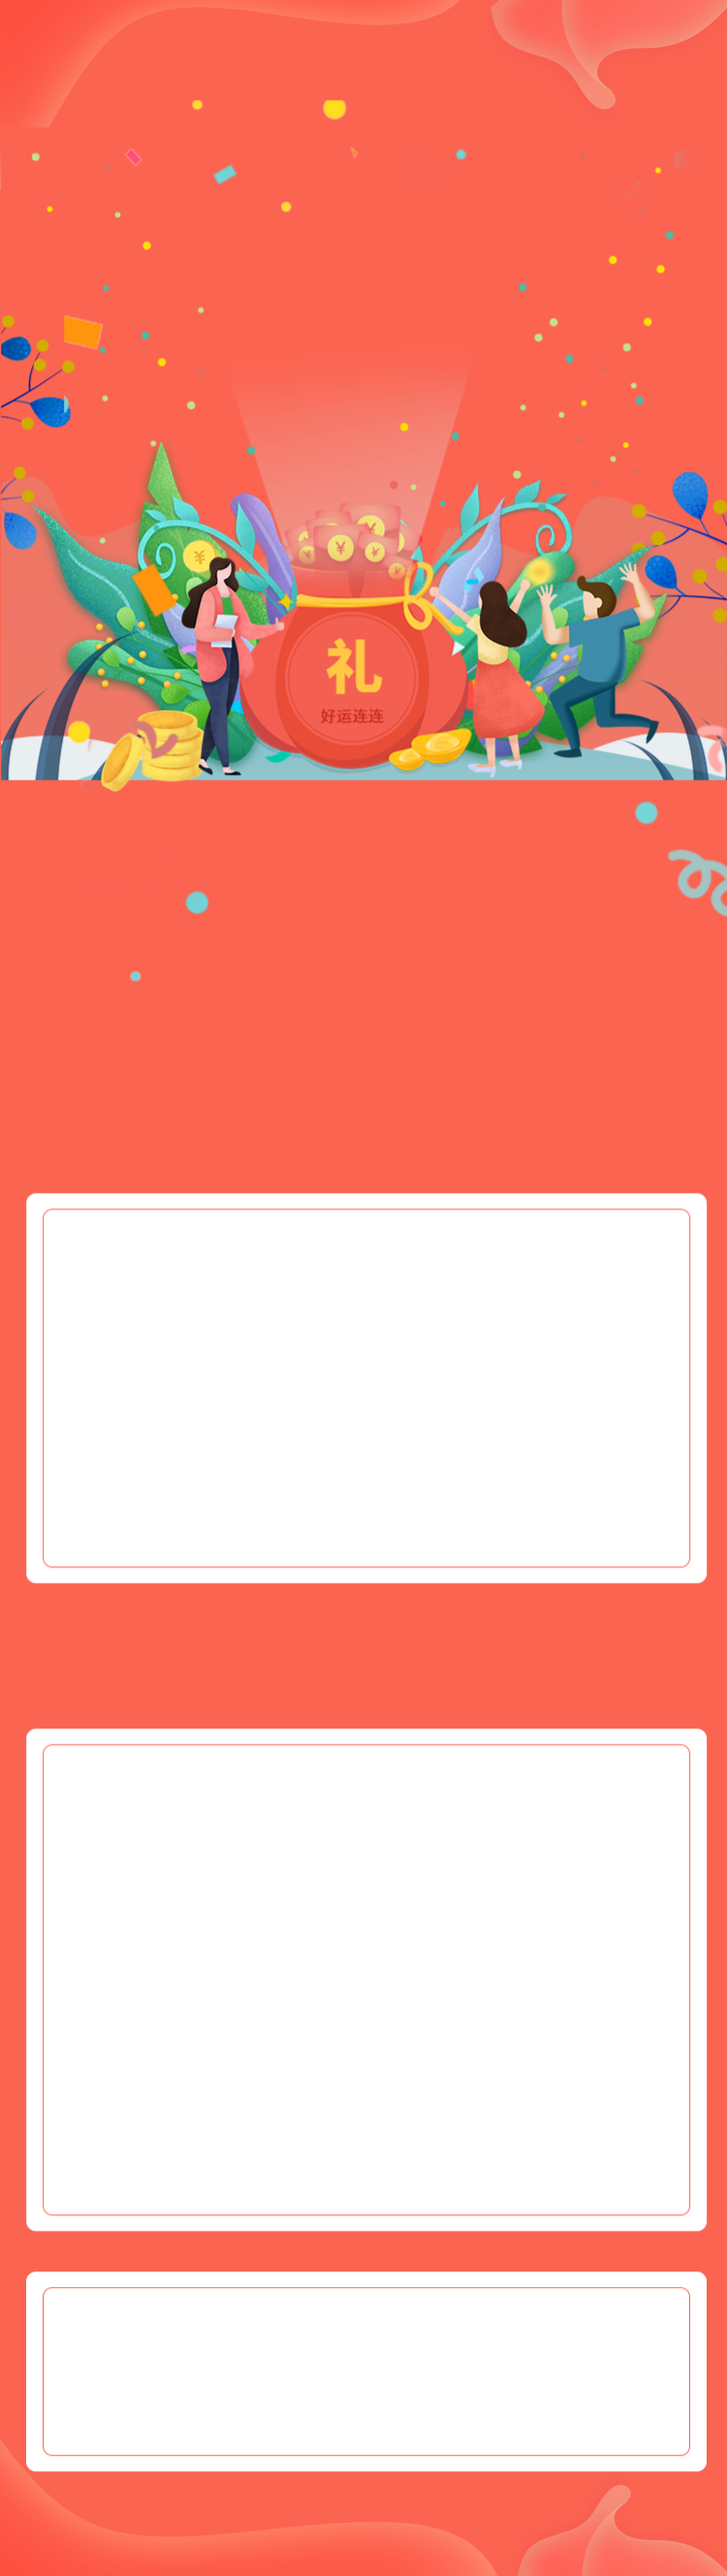
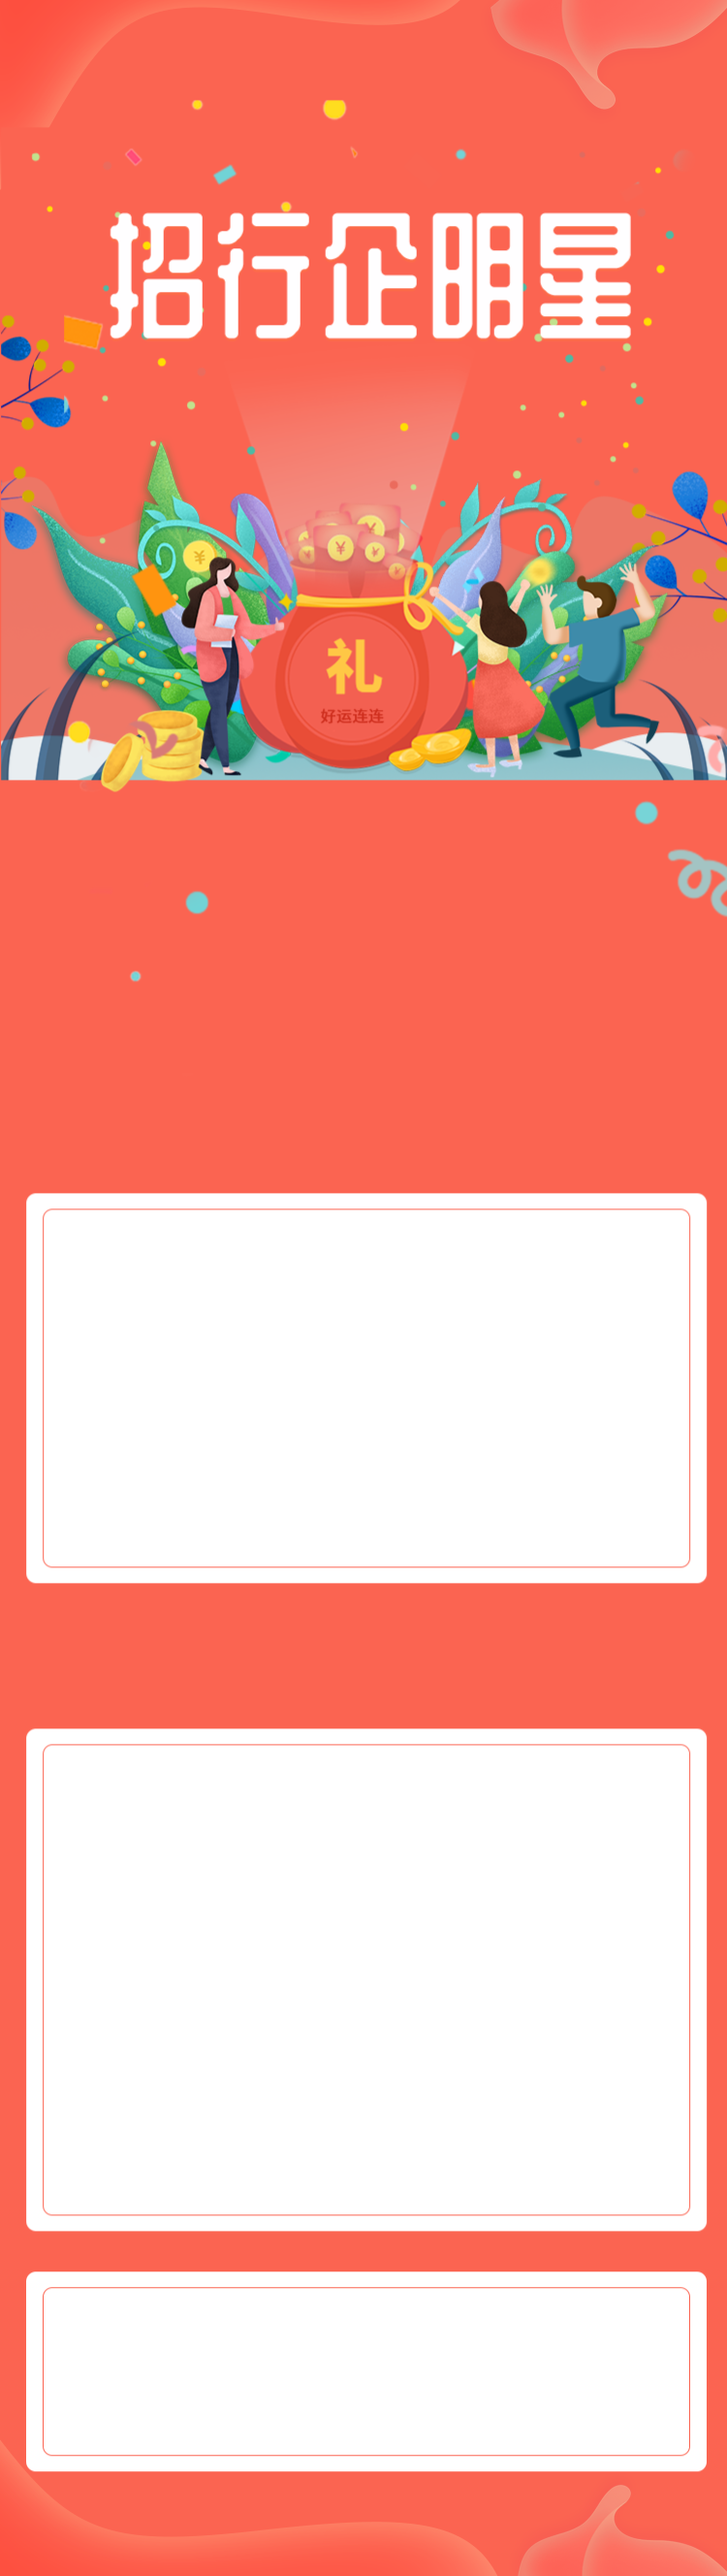
1

Changed region(s): [[0.1533, 0.0625, 0.8893, 0.1562]]

diff --git a/moxiuh5/src/store/index.js b/moxiuh5/src/store/index.js
@@ -65,7 +65,7 @@ export default new Vuex.Store({
       backgroundImgUrlRel: './image/subregiontitle.png',
       title: '活动专区',
       backgroundImgName: 'subregiontitle.png',
-      fontColor: '#A78D43',
+      fontColor: '#826219',
       fontSize: 16,
       backgroundColor: '',
       backgroundOpacity: 0,
@@ -112,7 +112,7 @@ export default new Vuex.Store({
       "backgroundImgUrlRel": "./image/subregiontitle.png",
       "title": "福利票券",
       "backgroundImgName": 'subregiontitleadAreaMid.png',
-      "fontColor": "#F1A553",
+      "fontColor": "#826219",
       "fontSize": 16,
       "backgroundColor": "#FFFFFF",
       "backgroundOpacity": 0,
@@ -124,7 +124,7 @@ export default new Vuex.Store({
       "backgroundImgUrlRel": './image/subregiontitle.png',
       "title": "薪享理财",
       "backgroundImgName": 'subregiontitleadAreaBottm.png',
-      "fontColor": "#A78D43",
+      "fontColor": "#826219",
       "fontSize": 16,
       "backgroundColor": "",
       "backgroundOpacity": 0,
@@ -146,7 +146,7 @@ export default new Vuex.Store({
         title: {
           "text": "影票、饭票免费领！",
           "fontSize": 16,
-          "fontColor": "#016afe",
+          "fontColor": "#0748C6",
           "backgroundImgName": "",
           "backgroundImgUrlRel": "",
           "backgroundColor": "",
